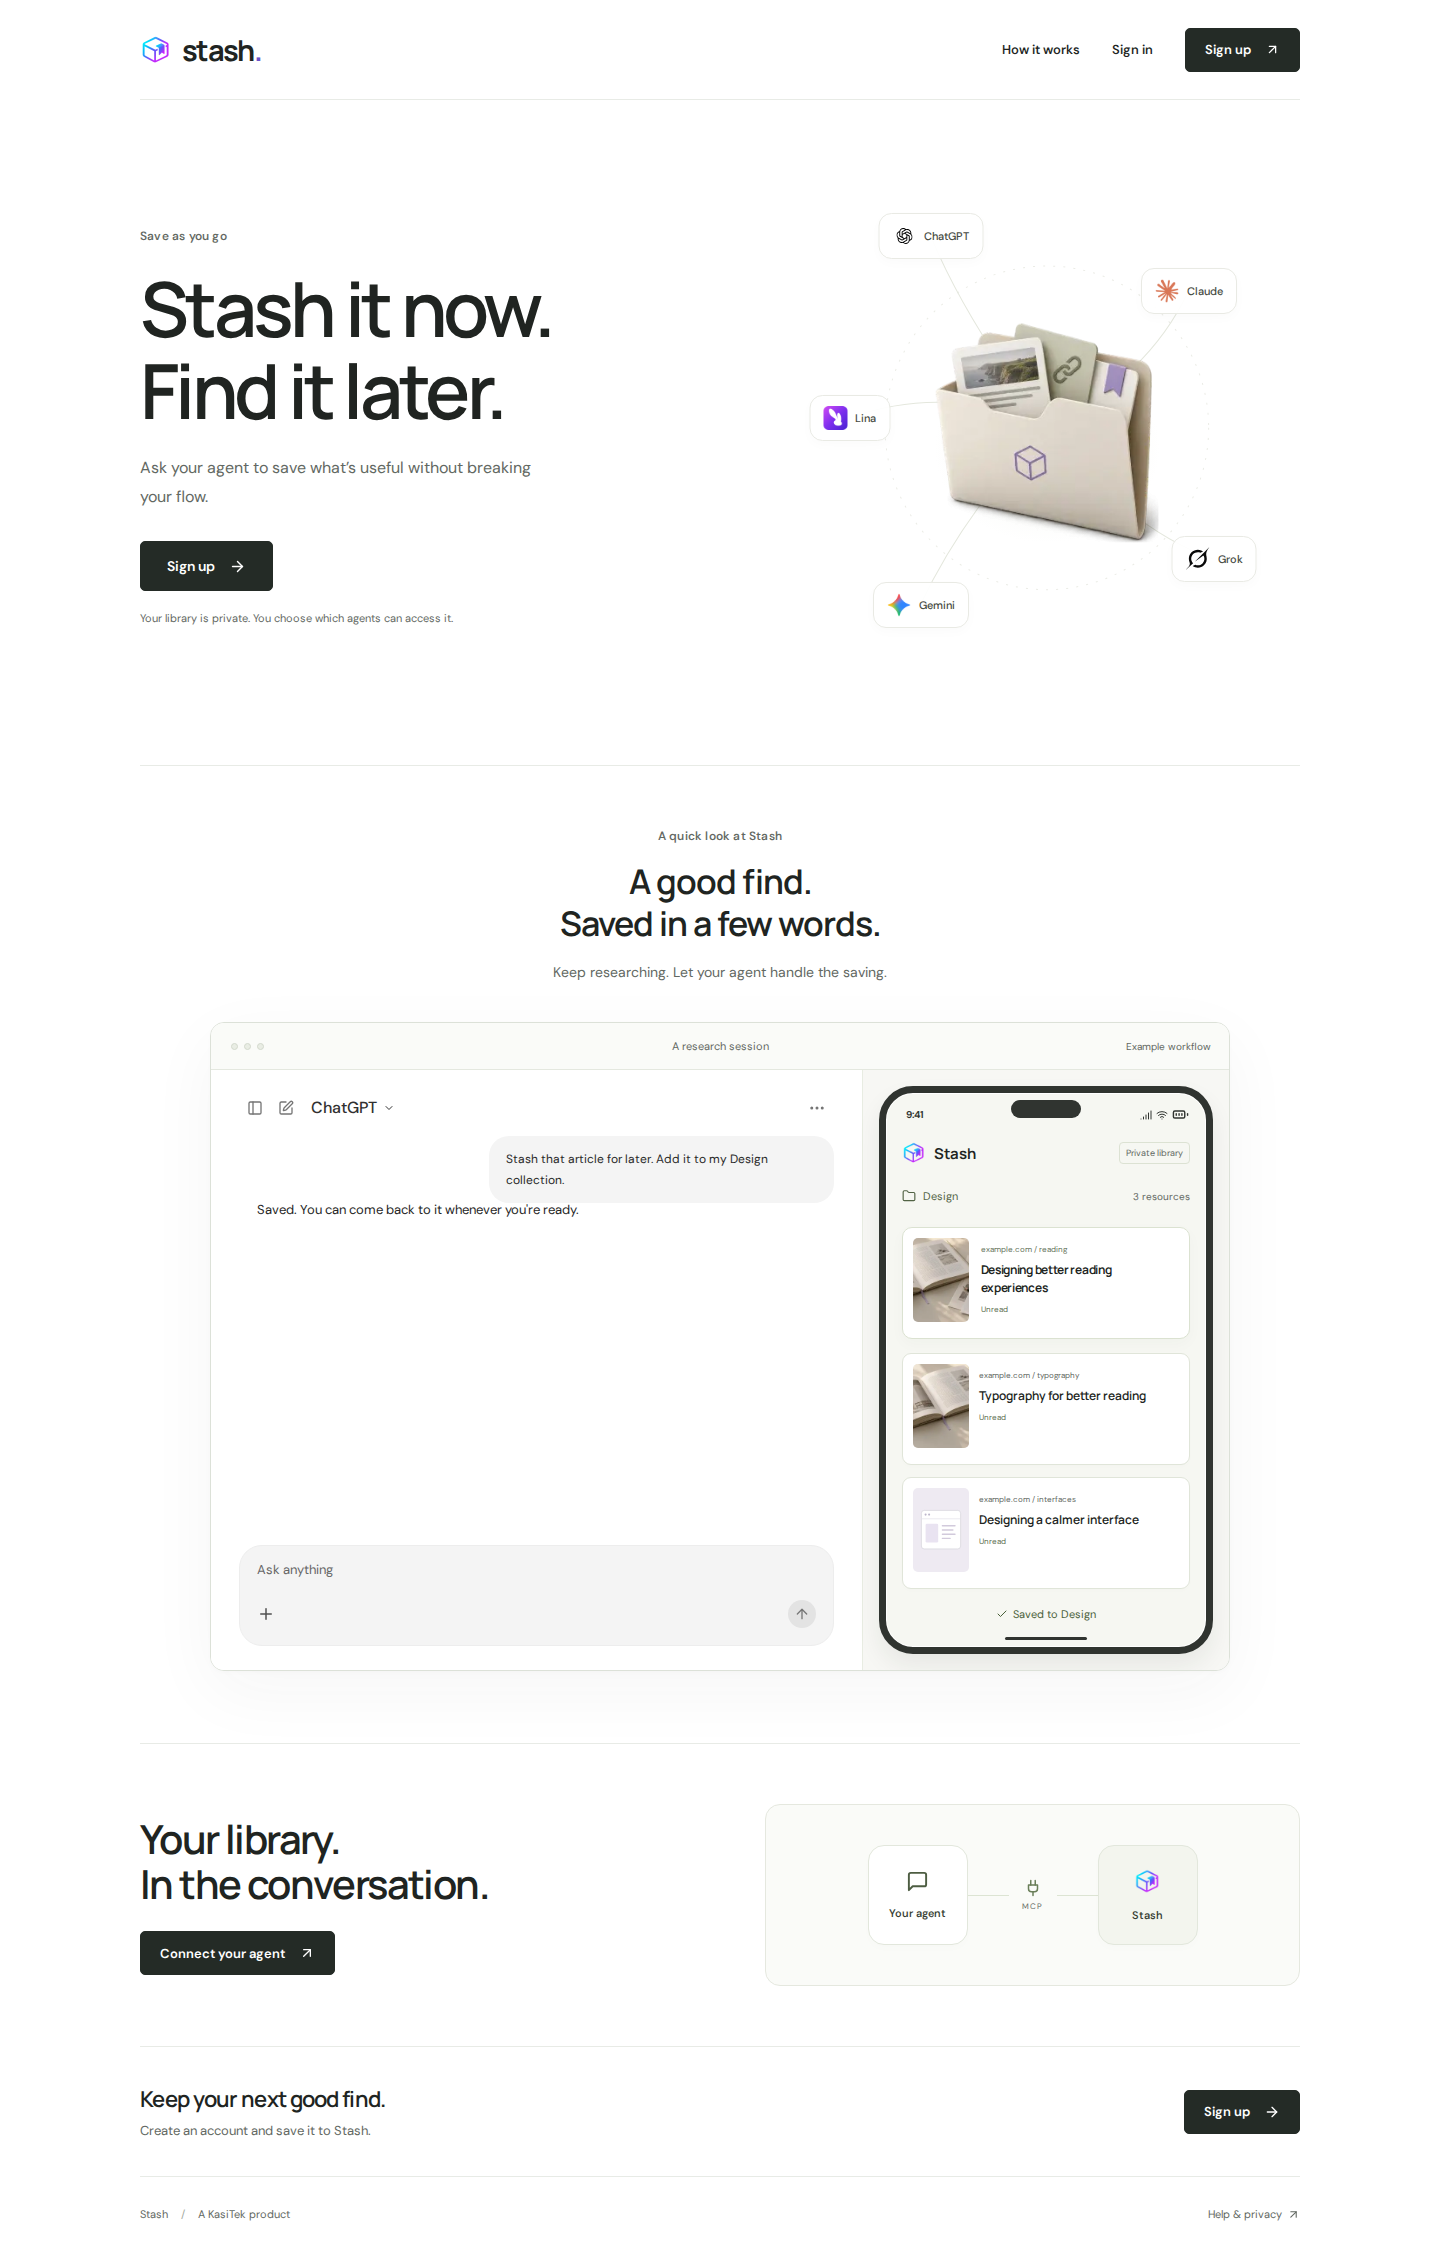
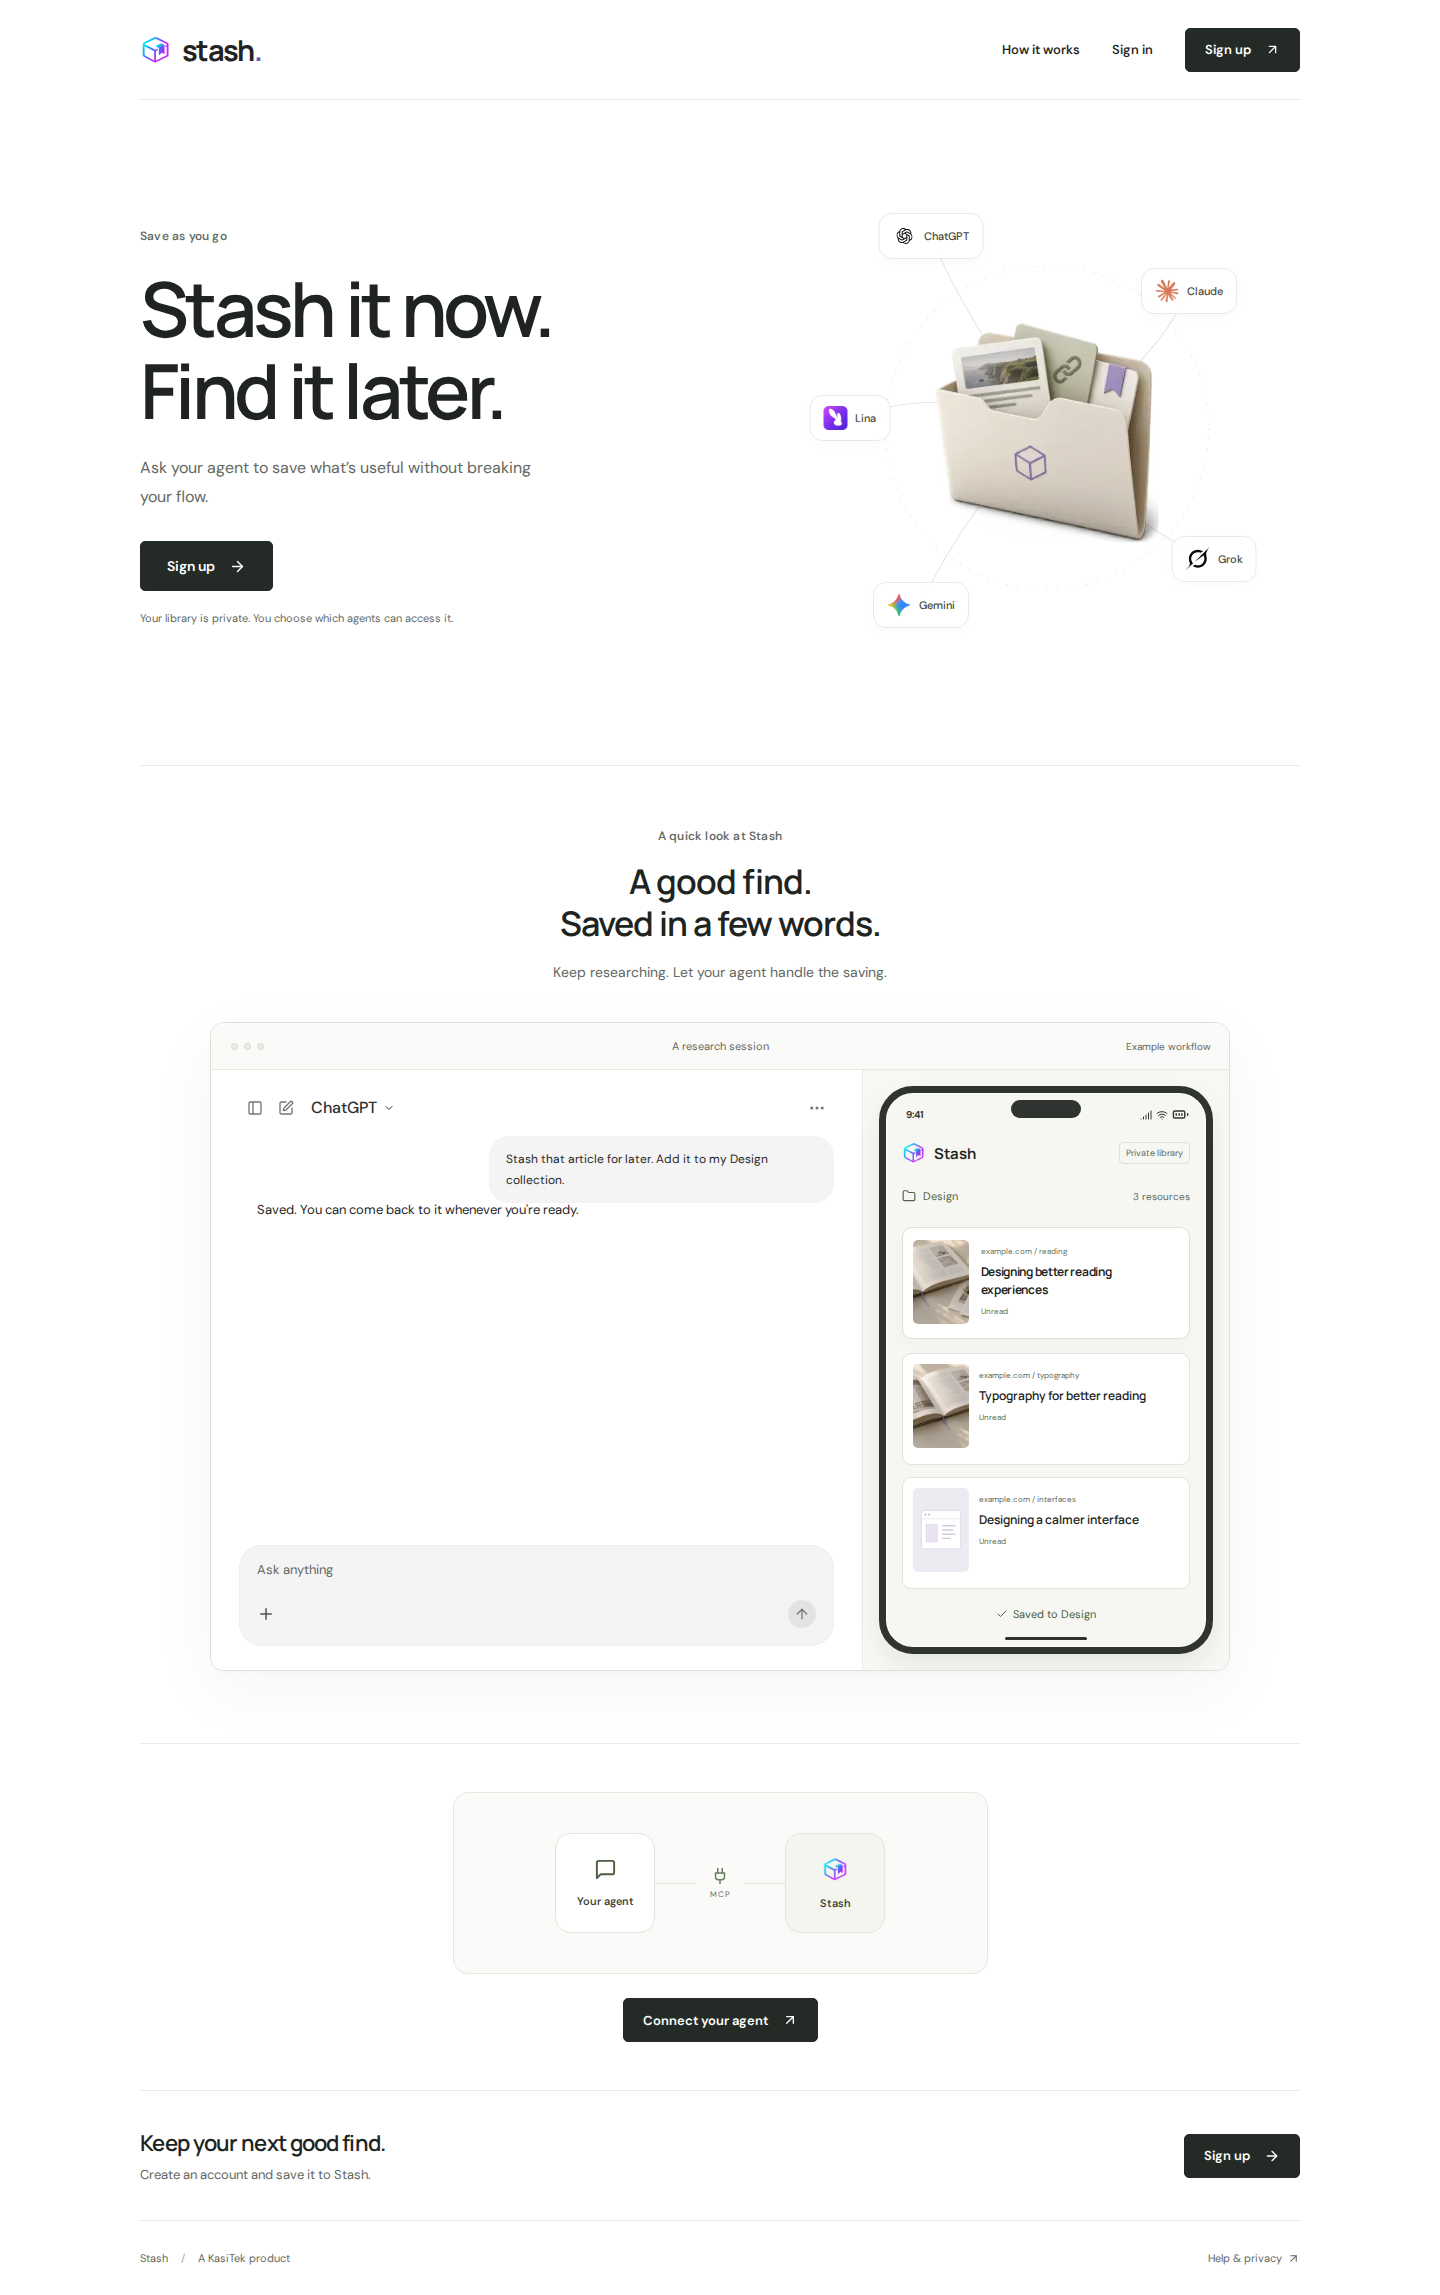
Simplify connection section and route its action to sign-in

diff --git a/apps/web/app/globals.css b/apps/web/app/globals.css
@@ -1945,10 +1945,8 @@ textarea::placeholder {
 .hero-stream-copy small { color: #626862; }
 
 /* A direct invitation to connect the library to an agent. */
-.site-connect { max-width: 1160px; margin: 0 auto; padding: 60px 0; border-top: 1px solid #e8ebe6; display: grid; grid-template-columns: 1fr 1fr; gap: 90px; align-items: center; }
-.site-connect h2 { margin: 0; font-size: 40px; line-height: 1.13; letter-spacing: -1.6px; font-weight: 600; }
-.site-connect-copy > .site-button { margin-top: 25px; }
-.site-connect-setup { padding: 40px 30px; border: 1px solid #e5e8df; border-radius: 15px; background: #fafbf8; }
+.site-connect { max-width: 1160px; margin: 0 auto; padding: 48px 0; border-top: 1px solid #e8ebe6; display: flex; flex-direction: column; gap: 24px; align-items: center; }
+.site-connect-setup { width: min(100%, 535px); padding: 40px 30px; border: 1px solid #e5e8df; border-radius: 15px; background: #fafbf8; }
 .site-connect-diagram { display: flex; align-items: center; justify-content: center; padding: 0; }
 .site-connect-node { display: flex; flex-direction: column; justify-content: center; align-items: center; gap: 13px; width: 100px; height: 100px; border: 1px solid #e2e7dc; border-radius: 16px; background: #fff; color: #4d5d42; box-shadow: 0 4px 8px #24301903; flex-shrink: 0; }
 .site-connect-node > span { font-size: 11px; color: #363d32; font-weight: 550; }
@@ -1957,5 +1955,5 @@ textarea::placeholder {
 .site-connect-wire > span { height: 1px; flex: 1; background: #dce4d3; }
 .site-connect-wire > div { width: 48px; height: 48px; display: flex; flex-direction: column; gap: 4px; align-items: center; justify-content: center; color: #697e58; }
 .site-connect-wire small { font-size: 8px; color: #626862; letter-spacing: 1px; }
-@media (max-width: 850px) { .site-connect { gap: 35px; } .site-connect h2 { font-size: 34px; } .site-connect-setup { padding: 23px; } }
-@media (max-width: 700px) { .site-connect { grid-template-columns: 1fr; padding: 48px 0; gap: 30px; } .site-connect h2 { font-size: 32px; letter-spacing: -1.2px; } .site-connect-node { width: 85px; height: 85px; border-radius: 13px; } }
+@media (max-width: 850px) { .site-connect-setup { padding: 23px; } }
+@media (max-width: 700px) { .site-connect-node { width: 85px; height: 85px; border-radius: 13px; } }

diff --git a/apps/web/app/landing.tsx b/apps/web/app/landing.tsx
@@ -25,11 +25,7 @@ export function Landing() {
           <HeroIllustration />
         </section>
         <ProductStory />
-        <section className="site-connect" id="connect" aria-labelledby="connect-title">
-          <div className="site-connect-copy">
-            <h2 id="connect-title">Your library.<br />In the conversation.</h2>
-            <Link href="/help#agents" className="site-button">Connect your agent <ArrowUpRight size={16} /></Link>
-          </div>
+        <section className="site-connect" id="connect" aria-label="Connect your agent">
           <div className="site-connect-setup">
             <div className="site-connect-diagram" aria-hidden="true">
               <div className="site-connect-node"><MessageSquare size={23} /><span>Your agent</span></div>
@@ -37,6 +33,7 @@ export function Landing() {
               <div className="site-connect-node site-connect-stash"><img src="/stash.png" width={27} height={27} alt="" /><span>Stash</span></div>
             </div>
           </div>
+          <Link href="/signin" className="site-button">Connect your agent <ArrowUpRight size={16} /></Link>
         </section>
         <section className="site-bottom"><div><h2>Keep your next good find.</h2><p>Create an account and save it to Stash.</p></div><Link href="/signup" className="site-button">Sign up <ArrowRight size={16} /></Link></section>
       </main>

diff --git a/tests/browser/landing.spec.ts b/tests/browser/landing.spec.ts
@@ -23,10 +23,9 @@ for (const width of [1440, 375]) {
     await mkdir("docs/evidence/browser", { recursive: true });
     await page.screenshot({ path: `docs/evidence/browser/landing-${width}.png`, fullPage: true, animations: "disabled" });
     await page.getByRole("link", { name: "Connect your agent", exact: false }).click();
-    await expect(page).toHaveURL(/\/help#agents$/);
-    await expect(page.getByRole("heading", { name: "Connect your agent through MCP" })).toBeVisible();
-    await expect(page.getByRole("link", { name: "Create an account", exact: true })).toHaveAttribute("href", "/signup");
-    await page.getByRole("link", { name: "Back to Stash", exact: false }).click();
+    await expect(page).toHaveURL(/\/signin$/);
+    await expect(page.getByRole("heading", { name: "Sign in to Stash" })).toBeVisible();
+    await page.getByRole("link", { name: "Back to home" }).click();
     await page.getByRole("link", { name: "Sign up", exact: true }).first().click();
     await expect(page).toHaveURL(/\/signup$/);
     await expect(page).toHaveTitle("Create your account · Stash");

diff --git a/.agents/skills/verify-stash/SKILL.md b/.agents/skills/verify-stash/SKILL.md
@@ -25,7 +25,7 @@ For the managed browser suite, Playwright checks the two readiness URLs before d
 
 `tests/browser/journeys.spec.ts` is the canonical browser recipe. It uses stable accessible selectors such as `Sign up`, `Your name`, `Email address`, `Password`, `Create account`, `Save a resource`, `Link`, `Title`, `Why it matters`, `Search your library`, `Import / export`, and `Open profile`.
 
-Check the centered hero folder and staggered incoming links/notes at desktop and 375px widths, including no horizontal overflow while the animation is running and static artwork with reduced motion. Follow Connect your agent to /help#agents and verify the setup guide and account links. Start at the public landing page, follow Sign up to `/signup`, and use `/signin` for returning users. The public page has a 13-second illustrated agent-save demo without a visible playback bar, chapter tabs, or caption. Check automatic start and looping, offscreen pause/resume, manual pause persistence, actual typing, a pause control revealed on hover or keyboard focus, example confirmation, card movement, and reduced motion with tests/browser/demo.spec.ts. Drive the actual user path: create an account, save a resource, follow the locally captured verification email, edit collections and reading status, search, import/export, manage an agent key, update the profile, sign out/in, and delete the account with reauthentication. The recovery test requests and follows a real captured email, then rejects a reused link. Mobile tests drive saving and keyboard dialogs at 375 and 768 pixels; the desktop test uses 1440 pixels.
+Check the centered hero folder and staggered incoming links/notes at desktop and 375px widths, including no horizontal overflow while the animation is running and static artwork with reduced motion. Follow Connect your agent to /signin and verify the sign-in form. The public MCP section has only the connection diagram and action, without a headline. Start at the public landing page, follow Sign up to `/signup`, and use `/signin` for returning users. The public page has a 13-second illustrated agent-save demo without a visible playback bar, chapter tabs, or caption. Check automatic start and looping, offscreen pause/resume, manual pause persistence, actual typing, a pause control revealed on hover or keyboard focus, example confirmation, card movement, and reduced motion with tests/browser/demo.spec.ts. Drive the actual user path: create an account, save a resource, follow the locally captured verification email, edit collections and reading status, search, import/export, manage an agent key, update the profile, sign out/in, and delete the account with reauthentication. The recovery test requests and follows a real captured email, then rejects a reused link. Mobile tests drive saving and keyboard dialogs at 375 and 768 pixels; the desktop test uses 1440 pixels.
 
 `tests/browser/accessibility.spec.ts` checks signup, library, save dialog, and profile using axe. Keyboard focus, Escape, dialog focus return, and layout overflow have dedicated browser assertions.
 

diff --git a/docs/verification.md b/docs/verification.md
@@ -173,3 +173,8 @@ All 3 focused browser tests passed for accessibility and desktop/mobile landing 
 Removed the setup list, kicker, paragraph, and footnote from the landing section. Kept the heading, Connect your agent CTA, and connection diagram. Detailed setup and compatibility information remains at /help#agents.
 
 All 3 focused browser tests passed for accessibility and desktop/mobile navigation, including following the connection CTA. Production build and type checks passed. Reviewed the updated desktop/mobile section screenshots and confirmed no mobile overflow. Evidence: [browser](evidence/mcp-clean-tests.txt), [build](evidence/mcp-clean-build.txt), [types](evidence/mcp-clean-types.txt), [desktop](evidence/browser/mcp-section-desktop.png), and [mobile](evidence/browser/mcp-section-mobile.png). Local and uncommitted.
+
+
+## Connection CTA to sign-in, 12 October 2026
+
+Removed the MCP section headline, keeping the connection diagram centered above its action. Connect your agent now opens /signin as requested. All 3 focused browser tests passed for accessibility and desktop/mobile journeys, including clicking the connection CTA and verifying the sign-in form. Production build and type checks passed. The updated local desktop/mobile section screenshots were reviewed and mobile overflow was absent. Evidence: [browser](evidence/mcp-signin-tests.txt), [build](evidence/mcp-signin-build.txt), [types](evidence/mcp-signin-types.txt), [desktop](evidence/browser/mcp-section-desktop.png), and [mobile](evidence/browser/mcp-section-mobile.png). Local and uncommitted.

diff --git a/docs/features/landing.md b/docs/features/landing.md
@@ -16,4 +16,4 @@ The latest local revision uses ChatGPT-style conversation chrome and a narrower 
 
 The Stash pane is presented as a phone screen with a status bar, camera island, rounded frame, and home indicator. Existing cards stay inside the phone; the new preview moves from the chat into its Design collection. Mobile layouts switch between chat and phone scenes.
 
-The MCP connection section sits after the walkthrough. It keeps only the heading, Connect your agent action, and agent-to-Stash diagram. Detailed steps remain in the setup guide. Connect your agent links to /help#agents, which includes account creation/sign-in links and the existing client setup instructions. The setup guide covers the remote MCP agent-key requirement. It creates no keys or connections on click.
+The MCP connection section sits after the walkthrough. It keeps only the agent-to-Stash diagram and Connect your agent action, centered beneath it. Detailed steps remain in the setup guide. Connect your agent links to /signin. The existing setup instructions remain at /help#agents. The setup guide covers the remote MCP agent-key requirement. It creates no keys or connections on click.

diff --git a/docs/landing-design.md b/docs/landing-design.md
@@ -31,3 +31,8 @@ Lina now uses the user's supplied original PNG. A new section after the walkthro
 ## Quieter MCP section
 
 At the user's request, removed the MCP kicker, paragraph, compatibility footnote, and three setup rows. The section now has only its heading, Connect your agent button, and the unchanged connection diagram. The linked setup guide retains the account, compatibility, and configuration details.
+
+
+## Connection diagram and sign-in action
+
+Removed the connection headline at the user's request. The section now centers the unchanged diagram with a Connect your agent button beneath it. The button opens /signin. Setup details remain in /help#agents and the authenticated Agent connections view.
